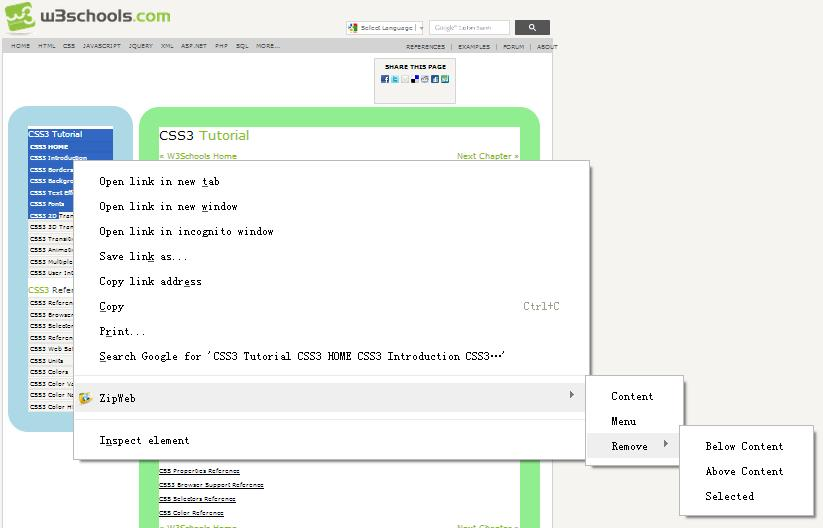
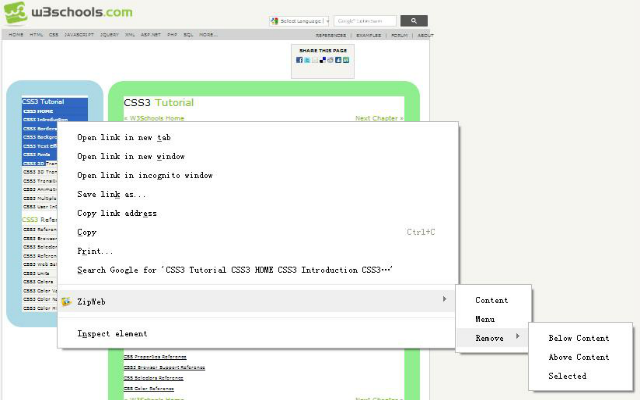
publishing Chrome zipweb

diff --git a/zipweb/chrome-zipweb/background.js b/zipweb/chrome-zipweb/background.js
@@ -1,19 +1,22 @@
+function _(key){
+	return chrome.i18n.getMessage(key)
+}
 chrome.runtime.onInstalled.addListener(function() {
 	chrome.contextMenus.create({title: "ZipWeb",			contexts:["page","image","selection"],id: "main"})
-	chrome.contextMenus.create({title: "Icon",  			contexts:["image"],		id: "icon", 	parentId:"main"})
-	chrome.contextMenus.create({title: "Content",  			contexts:["selection"],	id: "content", 	parentId:"main"})
-	chrome.contextMenus.create({title: "Menu", 		contexts:["selection"],	id: "menu", 	parentId:"main"})
-	chrome.contextMenus.create({title: "Remove",  			contexts:["selection"],	id: "remove", 	parentId:"main"})
-	chrome.contextMenus.create({title: "Below Content",  	contexts:["selection"],	id: "Below", 	parentId:"remove"})
-	chrome.contextMenus.create({title: "Above Content",  	contexts:["selection"],	id: "Above", 	parentId:"remove"})
-	chrome.contextMenus.create({title: "Selected",  		contexts:["selection"],	id: "Node", 	parentId:"remove"})
+	chrome.contextMenus.create({title: _("Icon"),  			contexts:["image"],		id: "icon", 	parentId:"main"})
+	chrome.contextMenus.create({title: _("Content"),		contexts:["selection"],	id: "content", 	parentId:"main"})
+	chrome.contextMenus.create({title: _("Menu"), 			contexts:["selection"],	id: "menu", 	parentId:"main"})
+	chrome.contextMenus.create({title: _("Remove"),  			contexts:["selection"],	id: "remove", 	parentId:"main"})
+	chrome.contextMenus.create({title: _("BelowContent"),  	contexts:["selection"],	id: "Below", 	parentId:"remove"})
+	chrome.contextMenus.create({title: _("AboveContent"),  	contexts:["selection"],	id: "Above", 	parentId:"remove"})
+	chrome.contextMenus.create({title: _("Selected"), 	 		contexts:["selection"],	id: "Node", 	parentId:"remove"})
 	
-	chrome.contextMenus.create({title: "Clear",  			contexts:["page"],				id: "clear", 	parentId:"main"})
-	chrome.contextMenus.create({title: "Download", 			contexts:["page","image"],		id: "download", parentId:"main"})
-	chrome.contextMenus.create({title: "Current Page", 		contexts:["page","image"],		id: "download1",parentId:"download"})
-	chrome.contextMenus.create({title: "1 Deep", 			contexts:["page","image"],		id: "download2",parentId:"download"})
-	chrome.contextMenus.create({title: "2 Deep", 			contexts:["page","image"],		id: "download3",parentId:"download"})
-	chrome.contextMenus.create({title: "Smart",  			contexts:["page","image"],		id: "download9",parentId:"download"})	
+	chrome.contextMenus.create({title: _("Clear"),  			contexts:["page"],				id: "clear", 	parentId:"main"})
+	chrome.contextMenus.create({title: _("Download"), 			contexts:["page","image"],		id: "download", parentId:"main"})
+	chrome.contextMenus.create({title: _("CurrentPage"), 		contexts:["page","image"],		id: "download1",parentId:"download"})
+	chrome.contextMenus.create({title: _("Deep1"), 			contexts:["page","image"],		id: "download2",parentId:"download"})
+	chrome.contextMenus.create({title: _("Deep2"), 			contexts:["page","image"],		id: "download3",parentId:"download"})
+	chrome.contextMenus.create({title: _("Smart"),  			contexts:["page","image"],		id: "download9",parentId:"download"})	
 });
 
 chrome.contextMenus.onClicked.addListener(function(info,tab,a){

diff --git a/base/GAE/src/com/yy/app/auth/User.java b/base/GAE/src/com/yy/app/auth/User.java
@@ -448,15 +448,13 @@ public class User extends AModel {
 
 			if (email != null && email.length() > 0) {
 				User.checkEmail(email);
-				user = (User) store.load().type(this.getClass().getEnclosingClass())
-						.filter("email", email).first().get();
+				user = (User) this.get("email", email);
 				if (user != null)
 					throw new RuntimeException(
 							"the email has already been registered.");
 			}
 
-			user = (User) store.load().type(this.getClass().getEnclosingClass())
-					.filter("account", account).first().get();
+			user = (User) this.get("account", account);
 			if (user != null)
 				throw new RuntimeException(
 						"the account has already been registered.");
